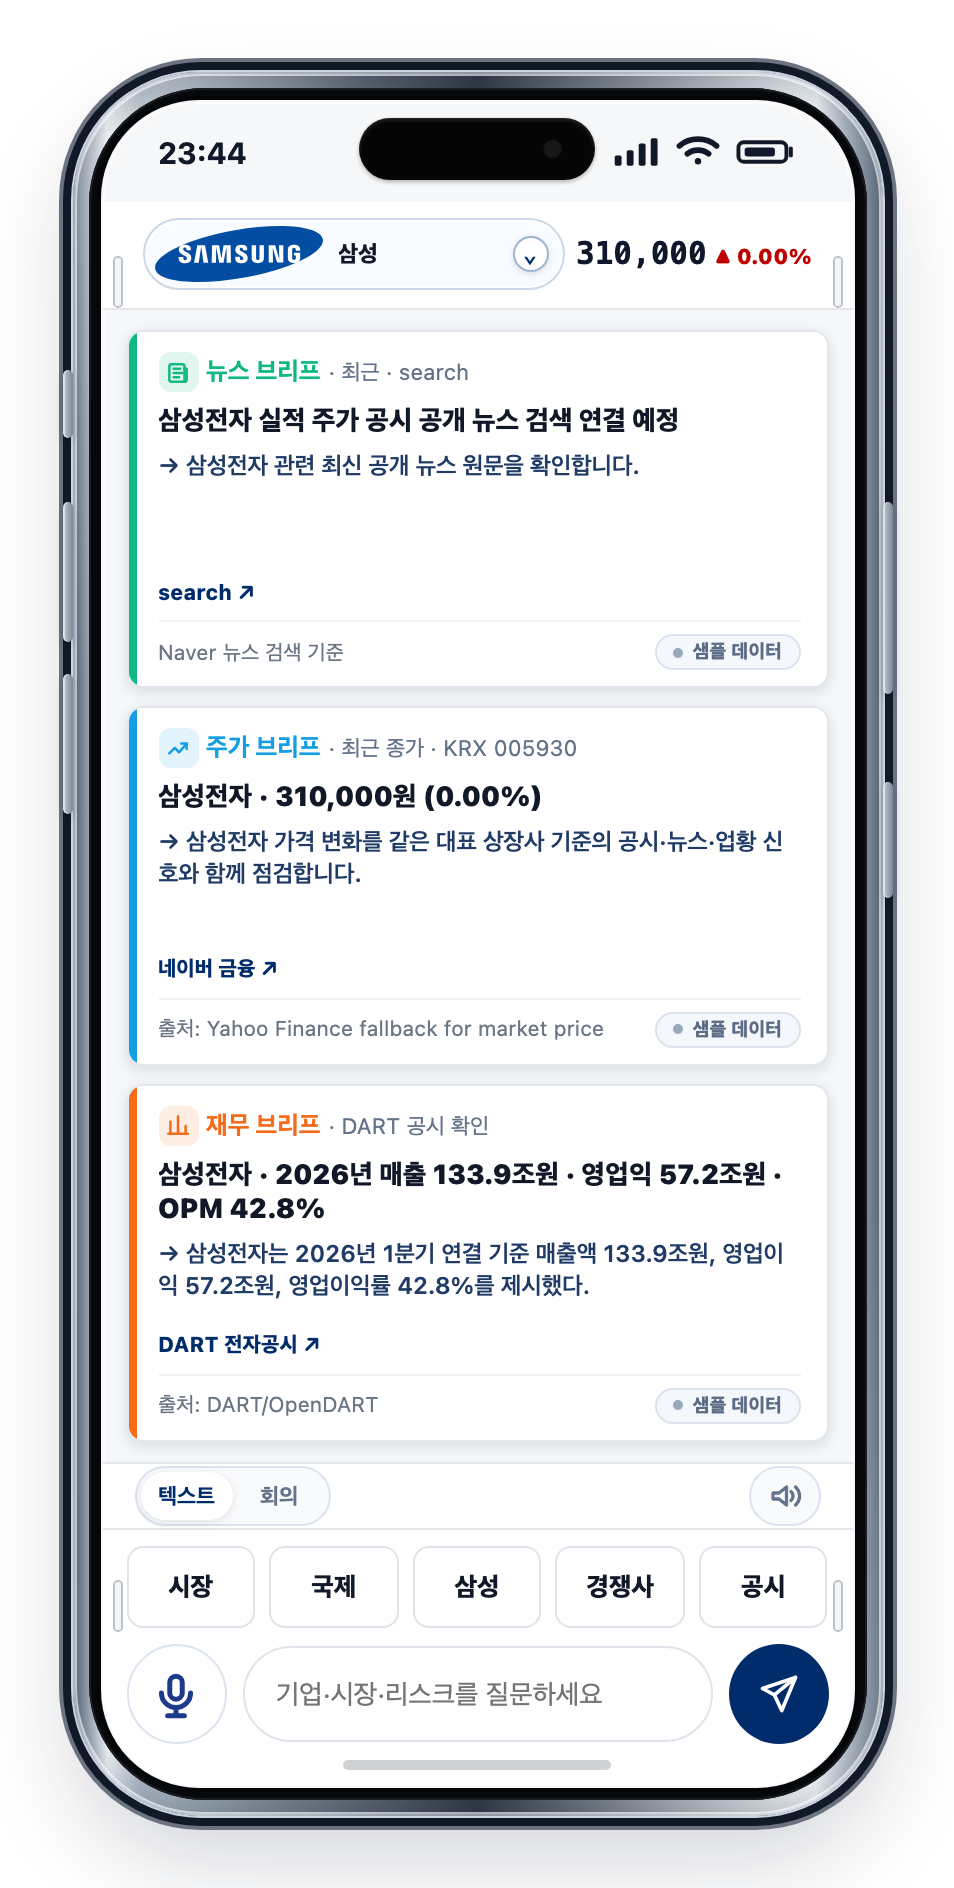
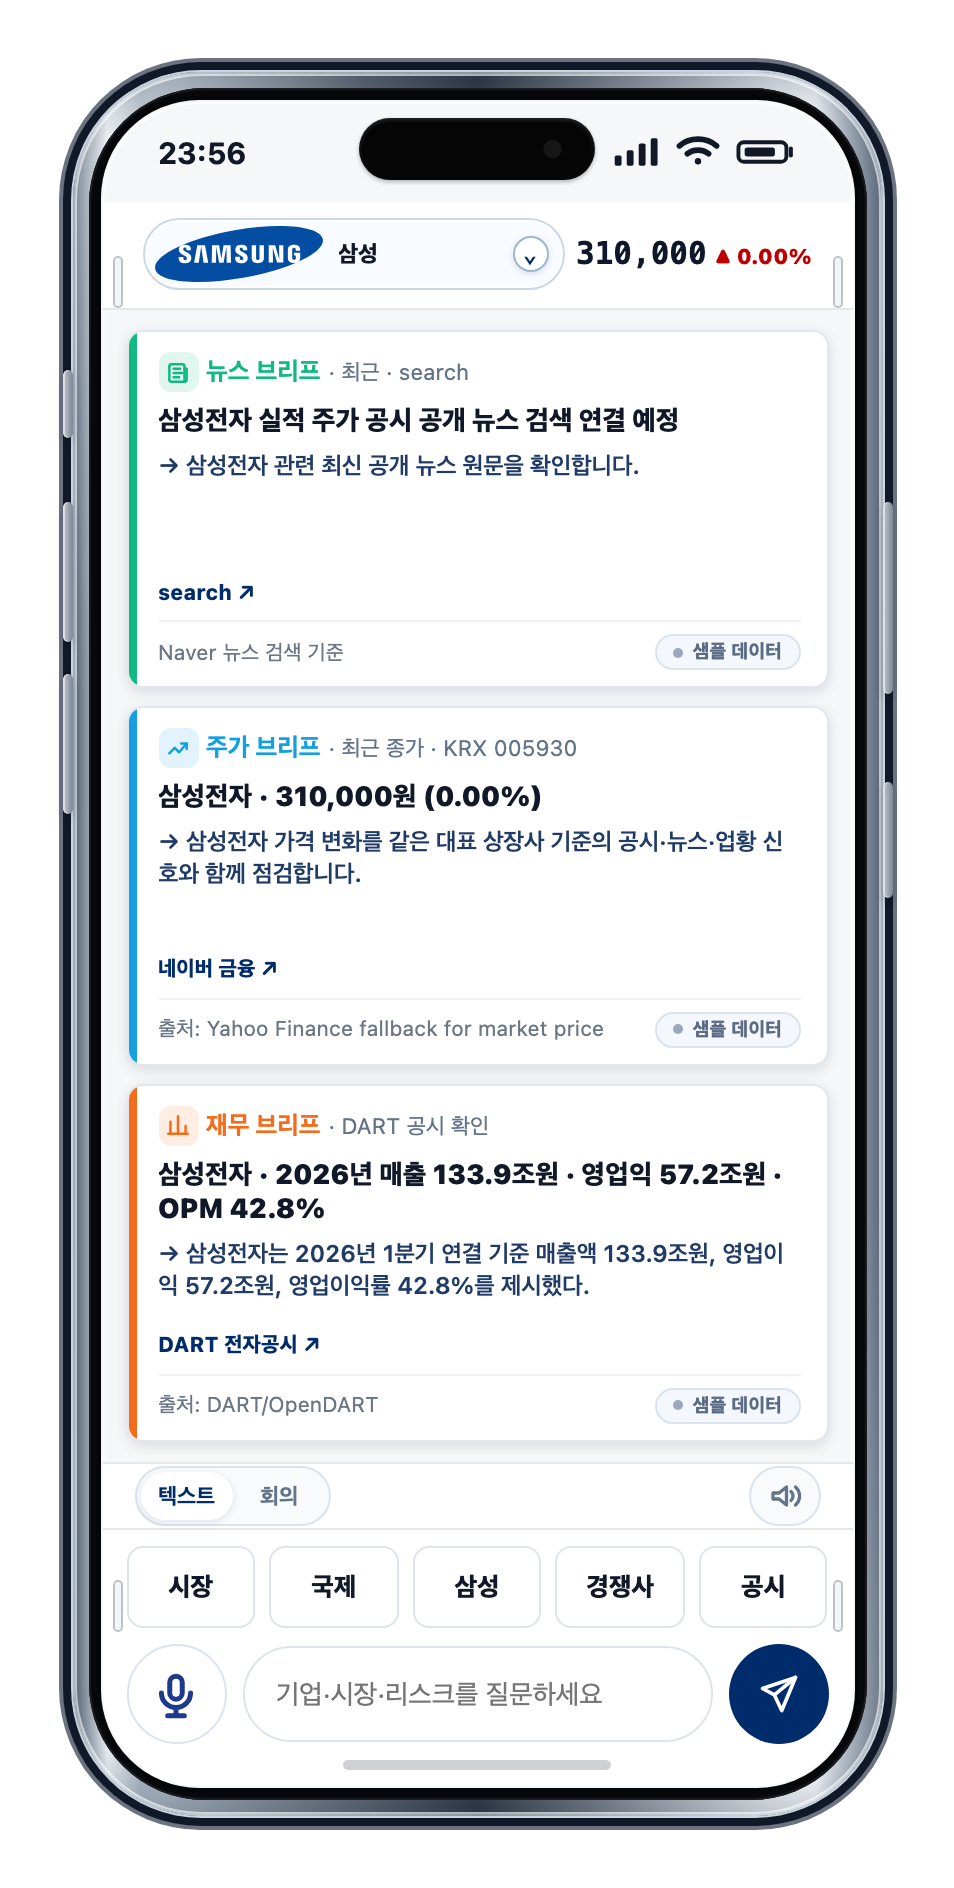
Release public-baseline-v0.5.3: figure frame finalization + selector callout
Post-v0.5.2 review. No evaluation numbers changed.

- Clean white margins: in paper-capture mode the device frame's soft outer
  drop-shadow (halo) is removed — only the hard bezel rings + inset highlights
  remain — so the margin around the phone is clean white, not a grey smudge.
  Capture padding (36px) kept so side buttons are not clipped.
- New figure docs/ui_mobile_selector_ko.png: the group selector open, showing all
  five groups (Samsung/SK/Hyundai Motor/LG/Hanwha). Capture clicks the brand
  toggle and shoots the open menu; pairs with the main figure as a side-by-side
  subpanel in the paper. README keeps the two primary figures (main + answer).
- Filename policy: ui_mobile_main_ko (closed feed), ui_mobile_answer_ko (answer),
  ui_mobile_selector_ko (selector open), ui_mobile_main_en (supplementary).
- Version consistency: README BibTeX note and roadmap manuscript-pin -> current tag.

Changed region(s): [[0.152, 0.9688, 0.8512, 1.0], [0.2128, 0.0625, 0.2736, 0.0938], [0.1216, 0.9375, 0.152, 0.9688]]

diff --git a/src/styles.css b/src/styles.css
@@ -66,12 +66,14 @@ button {
   background: #ffffff;
 }
 
+/* Paper figures favor crispness over depth: keep the hard bezel rings and the
+   inset highlights, but drop the soft outer drop-shadow (halo) so the margin
+   around the phone stays clean white instead of a grey smudge. */
 .product-page.paper-capture .device-shell {
   box-shadow:
     0 0 0 1px #cbd5e1,
     0 0 0 5px #111827,
     0 0 0 7px #6b7280,
-    0 22px 48px rgba(15, 23, 42, 0.18),
     inset 0 0 0 1px rgba(255, 255, 255, 0.62),
     inset 0 0 14px rgba(15, 23, 42, 0.2);
 }

diff --git a/CHANGELOG.md b/CHANGELOG.md
@@ -1,5 +1,24 @@
 # Changelog
 
+## public-baseline-v0.5.3 - 2026-06-23
+
+Figure frame finalization + group-selector callout (post-v0.5.2 review). No
+evaluation numbers changed.
+
+- Clean white margins: in `paper-capture` mode the device frame's soft outer
+  drop-shadow (halo) is removed — only the hard bezel rings and inset highlights
+  remain — so the area around the phone is clean white instead of a grey smudge.
+  Capture padding (36px) is kept so the side buttons are not clipped.
+- New figure `docs/ui_mobile_selector_ko.png`: the group selector in its open
+  state, showing all five groups (Samsung / SK / Hyundai Motor / LG / Hanwha).
+  The capture script clicks the brand toggle and shoots the open menu; it pairs
+  with the main figure as a side-by-side subpanel in the paper. README keeps just
+  the two primary figures (main + answer).
+- Figure filename policy: `ui_mobile_main_ko.png` (closed feed),
+  `ui_mobile_answer_ko.png` (answer), `ui_mobile_selector_ko.png` (selector open),
+  `ui_mobile_main_en.png` (supplementary only).
+- Version consistency: README BibTeX note and roadmap manuscript-pin → current tag.
+
 ## public-baseline-v0.5.2 - 2026-06-23
 
 Figure frame and language cleanup (post-v0.5.1 review). No evaluation numbers

diff --git a/docs/figure-capture.md b/docs/figure-capture.md
@@ -62,12 +62,16 @@ on `127.0.0.1`, renders at a 900px viewport (wider than the 720px mobile
 breakpoint, so the realistic device frame is preserved), and screenshots a region
 = the `.device-shell` bounding box **expanded by 36px on every side** so the
 box-shadow frame and the side buttons (at `left/right: -6px`, outside the shell
-box) are fully included rather than clipped. The `paper-capture` background is
-white, so the margin around the phone is clean. It writes:
+box) are fully included rather than clipped. In `paper-capture` mode the
+background is white **and the soft outer drop-shadow is removed** (only the hard
+bezel rings + inset highlights remain), so the margin around the phone is clean
+white rather than a grey smudge. It writes:
 
 - `docs/ui_mobile_main_ko.png` — primary Figure 1 (Korean briefing feed)
 - `docs/ui_mobile_answer_ko.png` — primary Figure 2 (Korean answer, pinned to the
   top so it starts at "핵심 인사이트")
+- `docs/ui_mobile_selector_ko.png` — group selector (open state, all five groups);
+  pairs with the main figure as a side-by-side subpanel in the paper
 - `docs/ui_mobile_main_en.png` — supplementary (English chrome; not a primary
   figure)
 

diff --git a/README.md b/README.md
@@ -111,7 +111,7 @@ If you cite this repository:
   year   = {2026},
   url    = {https://github.com/hammerbaki/enterprise-llm-agent-harness},
   doi    = {10.5281/zenodo.20685423},
-  note   = {Version public-baseline-v0.5.2}
+  note   = {Version public-baseline-v0.5.3}
 }
 ```
 
@@ -128,7 +128,7 @@ endorsement; the earlier *Applied Sciences* track is no longer being prepared.
 - [ ] Finalize the arXiv preprint and submit (cs.AI); add the arXiv ID and link
       here and in `CITATION.cff` once assigned.
 - [ ] Pin the manuscript repo (`harness-paper`, `artifacts/dev-pin.txt`) to the
-      `public-baseline-v0.5.2` tag and regenerate its tables from this repo.
+      `public-baseline-v0.5.3` tag and regenerate its tables from this repo.
 
 **Strengthen the evaluation (RQ defense)**
 - [ ] Add an external guardrail baseline (e.g. NeMo Guardrails / Guardrails AI)